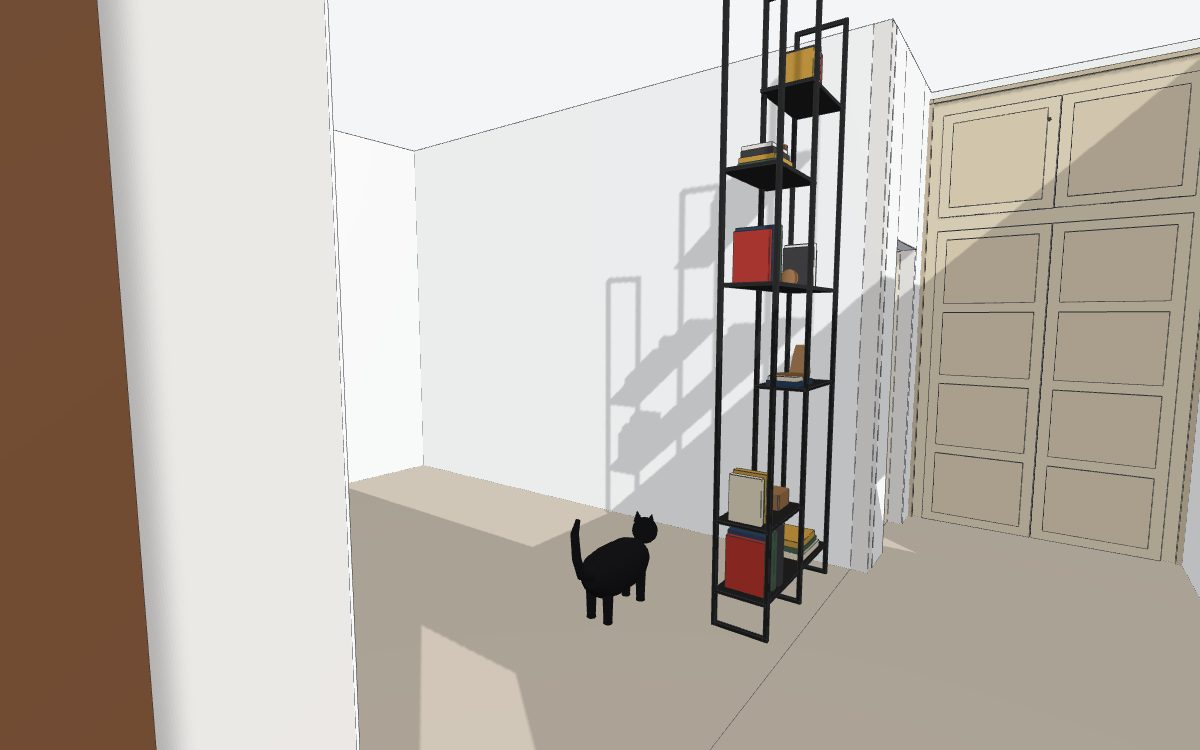
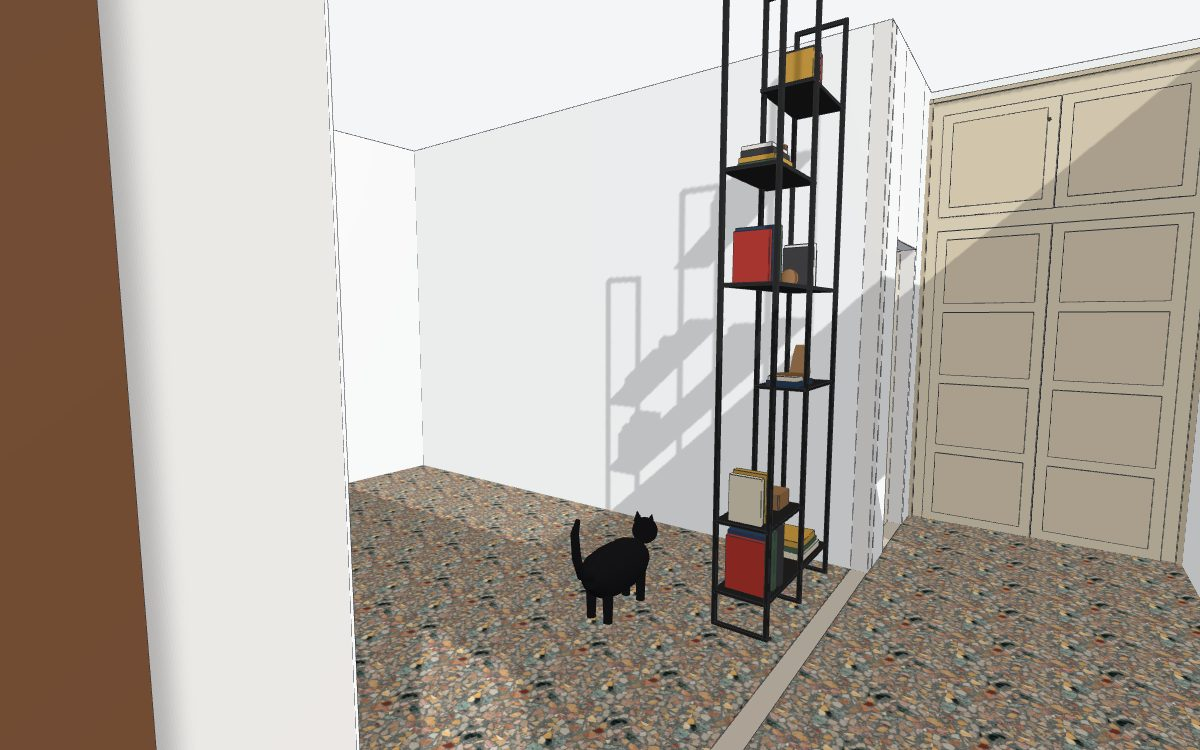
Add switchable terrazzo floor (40x40) to soggiorno and ingresso; on in base and sliding-door versions, off in the cage version
Claude-Session: https://claude.ai/code/session_017Czcnh6xzZxgGSwco7M1Pu

Changed region(s): [[0.2775, 0.6133, 1.0, 1.0]]

diff --git a/projects/casa-poggi-porta-scorrevole/house.js b/projects/casa-poggi-porta-scorrevole/house.js
@@ -3,7 +3,7 @@
 // Source: floor plan PDF "Planimetria_Casa_Poggi_Milano_modificata" (stato di fatto). "measured" = printed on the drawing, "estimate" = guessed.
 // Basic shell only: walls, openings, floor, balconies. No furniture, no materials yet (neutral colours).
 const path = require('path');
-const kit = require('../../scripts/scene-kit').createScene({ defaultOn: ['porte', 'armadio', 'porta-bagno', 'pittura', 'condizionatore', 'lampada-terra', 'gatto', 'libreria', 'porta-cucina'] });
+const kit = require('../../scripts/scene-kit').createScene({ defaultOn: ['porte', 'armadio', 'porta-bagno', 'pittura', 'condizionatore', 'lampada-terra', 'gatto', 'libreria', 'pavimento-terrazzo', 'porta-cucina'] });
 const { box, wall, slab, tube, rbox, group, defGroup, light } = kit;
 
 // ---------- dimensions (cm) ----------
@@ -49,6 +49,19 @@ const pf = (cx) => ({ from: cx - PF.w / 2, to: cx + PF.w / 2, head: PF.h });
 box('/Casa/Pavimento_Ingresso', C.floor, -TS, YI0 - TI, -4, XR + TE, YS0, 0);
 box('/Casa/Pavimento_Bagno', C.floor, ROOMS.soggiorno.w, YS0, -4, XR + TE, YS1 + TE, 0);
 box('/Casa/Pavimento_Soggiorno', C.floor, 0, YS0, -4, ROOMS.soggiorno.w, YS1 + TE, 0);
+// terrazzo floor (Hus Milano "Rainbow Gleam", from the user's photo): 40 x 40 cm tiles, straight lay, no joints,
+// soggiorno + ingresso only, flush with the wall faces (not under the door thresholds). Thin skin over the base floor,
+// in its own switchable group   tile size user
+{ const TZ = { tile: 40, z: 0.3 };
+  defGroup('pavimento-terrazzo', 'Pavimento terrazzo Rainbow Gleam (40 x 40)', 'Finiture', null, { fixed: true });
+  group('pavimento-terrazzo', () => {
+    for (const [n, poly] of [['Soggiorno', [[0, YS0], [ROOMS.soggiorno.w, YS0], [ROOMS.soggiorno.w, YS1], [0, YS1]]],
+                             ['Ingresso', [[0, YI0], [XR, YI0], [XR, YI1], [0, YI1]]]]) {
+      slab(`/Pavimento_Terrazzo/Terrazzo_${n}`, [120, 112, 104, 255], poly, 0, TZ.z);
+      kit.items[kit.items.length - 1].tex = { url: 'textures/terrazzo-rainbow-gleam.png', tile: kit.inch(TZ.tile) };
+    }
+  }); }
+
 // camera: herringbone parquet (honey oak, 7 x 42 cm boards at 45 degrees, from the user's photo) + darker border band   pattern measured on photo, sizes estimate
 slab('/Casa/Camera/Parquet', [150, 95, 50, 255], [[XC0 - TW, -TE], [XR + TE, -TE], [XR + TE, YI0 - TI], [XC0 - TW, YI0 - TI]], -4, 0);
 kit.items[kit.items.length - 1].tex = { url: 'textures/parquet-spina.png', tile: kit.inch(PARQUET.tile) };

diff --git a/projects/casa-poggi/house.js b/projects/casa-poggi/house.js
@@ -3,7 +3,7 @@
 // Source: floor plan PDF "Planimetria_Casa_Poggi_Milano_modificata" (stato di fatto). "measured" = printed on the drawing, "estimate" = guessed.
 // Basic shell only: walls, openings, floor, balconies. No furniture, no materials yet (neutral colours).
 const path = require('path');
-const kit = require('../../scripts/scene-kit').createScene({ defaultOn: ['porte', 'armadio', 'porta-bagno', 'pittura', 'condizionatore', 'lampada-terra', 'gatto', 'libreria'] });
+const kit = require('../../scripts/scene-kit').createScene({ defaultOn: ['porte', 'armadio', 'porta-bagno', 'pittura', 'condizionatore', 'lampada-terra', 'gatto', 'libreria', 'pavimento-terrazzo'] });
 const { box, wall, slab, tube, rbox, group, defGroup, light } = kit;
 
 // ---------- dimensions (cm) ----------
@@ -49,6 +49,19 @@ const pf = (cx) => ({ from: cx - PF.w / 2, to: cx + PF.w / 2, head: PF.h });
 box('/Casa/Pavimento_Ingresso', C.floor, -TS, YI0 - TI, -4, XR + TE, YS0, 0);
 box('/Casa/Pavimento_Bagno', C.floor, ROOMS.soggiorno.w, YS0, -4, XR + TE, YS1 + TE, 0);
 box('/Casa/Pavimento_Soggiorno', C.floor, 0, YS0, -4, ROOMS.soggiorno.w, YS1 + TE, 0);
+// terrazzo floor (Hus Milano "Rainbow Gleam", from the user's photo): 40 x 40 cm tiles, straight lay, no joints,
+// soggiorno + ingresso only, flush with the wall faces (not under the door thresholds). Thin skin over the base floor,
+// in its own switchable group   tile size user
+{ const TZ = { tile: 40, z: 0.3 };
+  defGroup('pavimento-terrazzo', 'Pavimento terrazzo Rainbow Gleam (40 x 40)', 'Finiture', null, { fixed: true });
+  group('pavimento-terrazzo', () => {
+    for (const [n, poly] of [['Soggiorno', [[0, YS0], [ROOMS.soggiorno.w, YS0], [ROOMS.soggiorno.w, YS1], [0, YS1]]],
+                             ['Ingresso', [[0, YI0], [XR, YI0], [XR, YI1], [0, YI1]]]]) {
+      slab(`/Pavimento_Terrazzo/Terrazzo_${n}`, [120, 112, 104, 255], poly, 0, TZ.z);
+      kit.items[kit.items.length - 1].tex = { url: 'textures/terrazzo-rainbow-gleam.png', tile: kit.inch(TZ.tile) };
+    }
+  }); }
+
 // camera: herringbone parquet (honey oak, 7 x 42 cm boards at 45 degrees, from the user's photo) + darker border band   pattern measured on photo, sizes estimate
 slab('/Casa/Camera/Parquet', [150, 95, 50, 255], [[XC0 - TW, -TE], [XR + TE, -TE], [XR + TE, YI0 - TI], [XC0 - TW, YI0 - TI]], -4, 0);
 kit.items[kit.items.length - 1].tex = { url: 'textures/parquet-spina.png', tile: kit.inch(PARQUET.tile) };

diff --git a/projects/casa-poggi-gabbia-cucina/house.js b/projects/casa-poggi-gabbia-cucina/house.js
@@ -49,6 +49,19 @@ const pf = (cx) => ({ from: cx - PF.w / 2, to: cx + PF.w / 2, head: PF.h });
 box('/Casa/Pavimento_Ingresso', C.floor, -TS, YI0 - TI, -4, XR + TE, YS0, 0);
 box('/Casa/Pavimento_Bagno', C.floor, ROOMS.soggiorno.w, YS0, -4, XR + TE, YS1 + TE, 0);
 box('/Casa/Pavimento_Soggiorno', C.floor, 0, YS0, -4, ROOMS.soggiorno.w, YS1 + TE, 0);
+// terrazzo floor (Hus Milano "Rainbow Gleam", from the user's photo): 40 x 40 cm tiles, straight lay, no joints,
+// soggiorno + ingresso only, flush with the wall faces (not under the door thresholds). Thin skin over the base floor,
+// in its own switchable group   tile size user
+{ const TZ = { tile: 40, z: 0.3 };
+  defGroup('pavimento-terrazzo', 'Pavimento terrazzo Rainbow Gleam (40 x 40)', 'Finiture', null, { fixed: true });
+  group('pavimento-terrazzo', () => {
+    for (const [n, poly] of [['Soggiorno', [[0, YS0], [ROOMS.soggiorno.w, YS0], [ROOMS.soggiorno.w, YS1], [0, YS1]]],
+                             ['Ingresso', [[0, YI0], [XR, YI0], [XR, YI1], [0, YI1]]]]) {
+      slab(`/Pavimento_Terrazzo/Terrazzo_${n}`, [120, 112, 104, 255], poly, 0, TZ.z);
+      kit.items[kit.items.length - 1].tex = { url: 'textures/terrazzo-rainbow-gleam.png', tile: kit.inch(TZ.tile) };
+    }
+  }); }
+
 // camera: herringbone parquet (honey oak, 7 x 42 cm boards at 45 degrees, from the user's photo) + darker border band   pattern measured on photo, sizes estimate
 slab('/Casa/Camera/Parquet', [150, 95, 50, 255], [[XC0 - TW, -TE], [XR + TE, -TE], [XR + TE, YI0 - TI], [XC0 - TW, YI0 - TI]], -4, 0);
 kit.items[kit.items.length - 1].tex = { url: 'textures/parquet-spina.png', tile: kit.inch(PARQUET.tile) };
